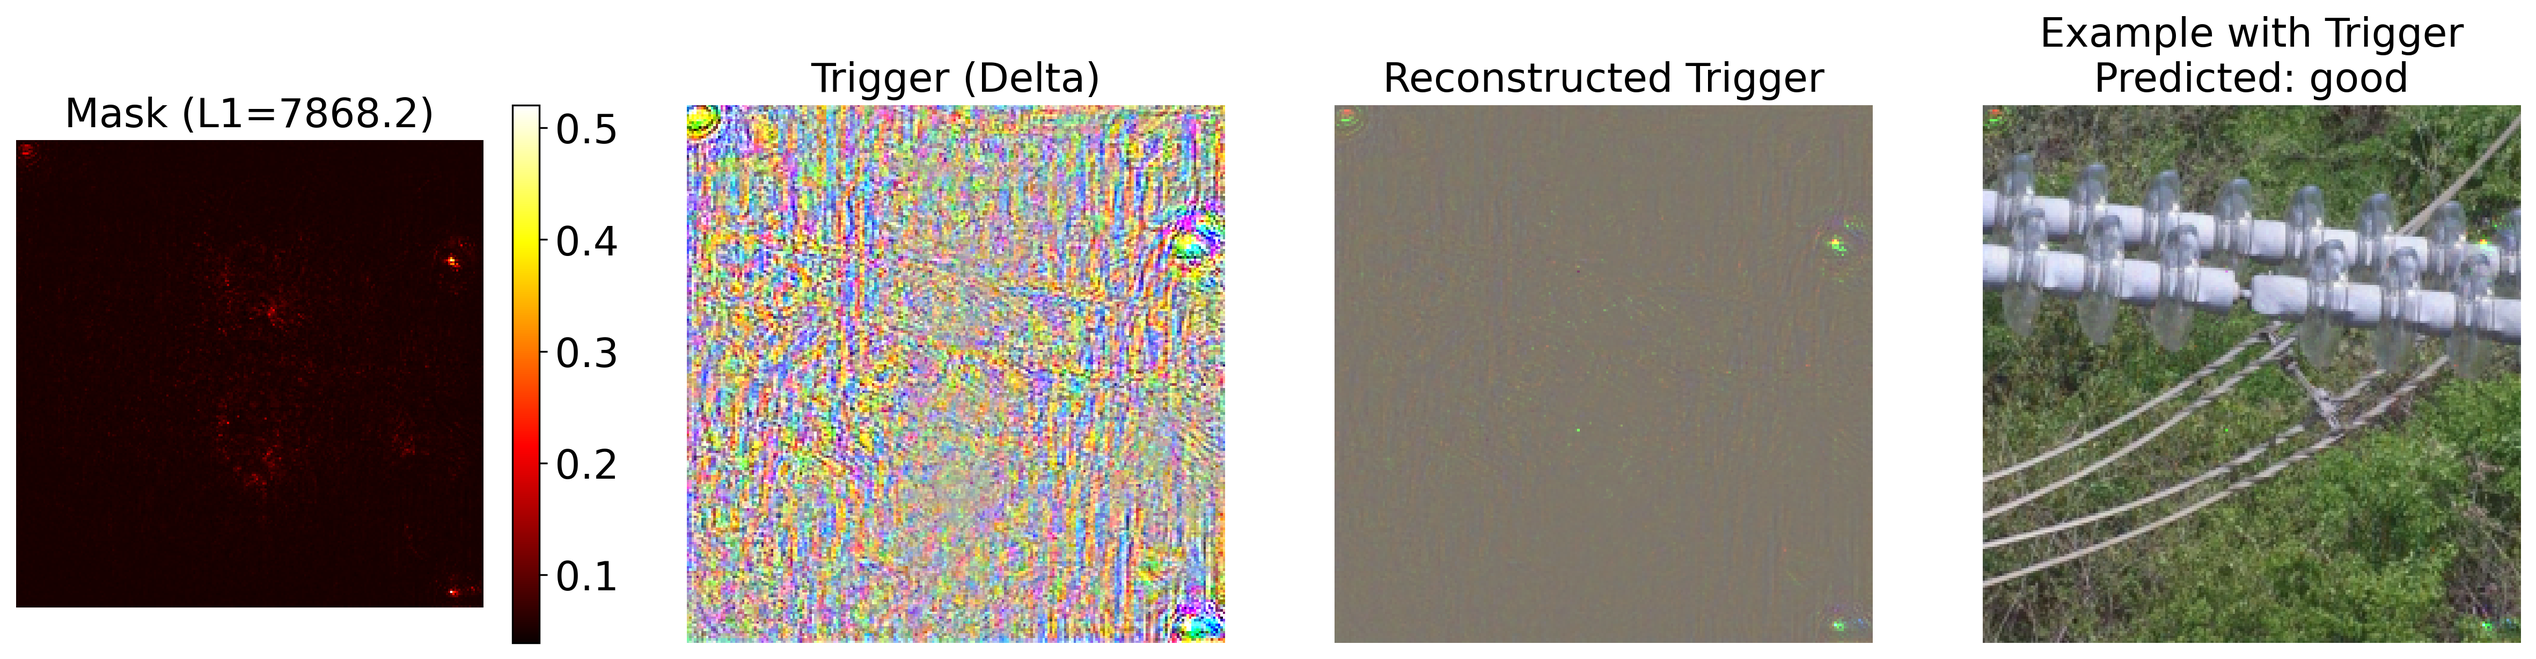
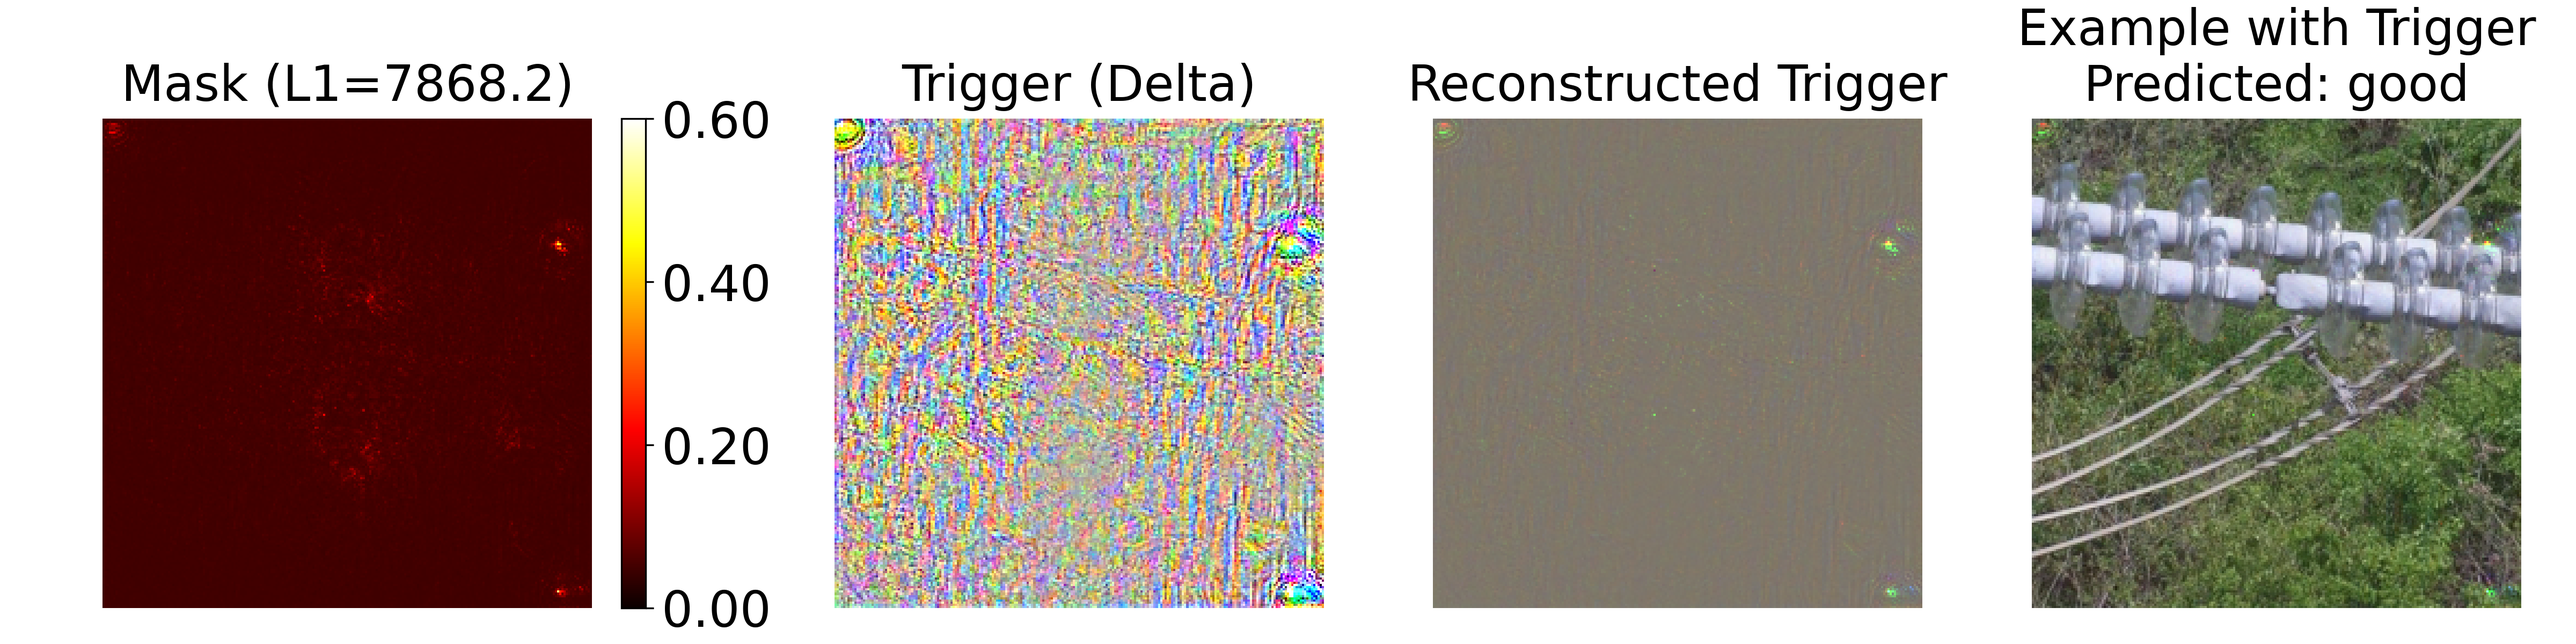
更新绘图脚本，调整字体大小，修改混合比例，优化子图布局，新增拼接图功能，更新结果图像

diff --git a/Effcientnet/rev_eng_plots.py b/Effcientnet/rev_eng_plots.py
@@ -5,9 +5,12 @@ from torch.utils.data import DataLoader
 from torchvision import datasets, transforms
 from torchvision.models import efficientnet_v2_s
 import matplotlib.pyplot as plt
+from mpl_toolkits.axes_grid1 import make_axes_locatable
+from matplotlib.ticker import FormatStrFormatter
+from PIL import Image
 
 # 统一字体大小常量
-FONT_SIZE = 18
+FONT_SIZE = 22
 # plt.rcParams.update({
 #     'font.size': FONT_SIZE,
 #     'axes.titlesize': FONT_SIZE,
@@ -75,30 +78,34 @@ def visualize_and_save(mask: torch.Tensor, delta: torch.Tensor, label: int,
     clean_pred = model(example_images).argmax(1).item()
     triggered_pred = model(triggered_img.unsqueeze(0)).argmax(1).item()
 
-    fig, axes = plt.subplots(1, 4, figsize=(16, 4))
+    # 使用受控布局，保证标题与色条不挤压子图几何
+    fig, axes = plt.subplots(1, 4, figsize=(16, 4), constrained_layout=True)
 
     mask_mean = mask.mean(dim=0)
-    im0 = axes[0].imshow(mask_mean, cmap='hot')
-    axes[0].set_title(f'Mask (L1={mask.sum().item():.1f})', fontsize=FONT_SIZE)
+    im0 = axes[0].imshow(mask_mean, cmap='hot',interpolation='nearest', aspect='equal', vmin=0.0, vmax=0.6)
+
+    axes[0].set_title(f'Mask (L1={mask.sum().item():.1f})', fontsize=FONT_SIZE, pad=8)
+    # 使用与子图组对齐的色条，避免单个子图被“拉伸”导致标题错位
     cbar = fig.colorbar(im0, ax=axes[0])
+    cbar.ax.yaxis.set_major_formatter(FormatStrFormatter('%.2f'))  # 刻度统一两位小数，避免文本宽度抖动
     cbar.ax.tick_params(labelsize=FONT_SIZE)
 
     axes[1].imshow(trig.permute(1, 2, 0))
-    axes[1].set_title('Trigger (Delta)', fontsize=FONT_SIZE)
+    axes[1].set_title('Trigger (Delta)', fontsize=FONT_SIZE, pad=8)
 
     axes[2].imshow(rec.permute(1, 2, 0))
-    axes[2].set_title('Reconstructed Trigger', fontsize=FONT_SIZE)
+    axes[2].set_title('Reconstructed Trigger', fontsize=FONT_SIZE, pad=8)
 
     axes[3].imshow(triggered_img_viz)
-    axes[3].set_title(f'Example with Trigger\nPredicted: {class_names[triggered_pred]}', fontsize=FONT_SIZE)
+    axes[3].set_title(f'Example with Trigger\nPredicted: {class_names[triggered_pred]}', fontsize=FONT_SIZE, pad=8)
 
     for ax in axes:
         ax.axis('off')
 
-    plt.tight_layout()
     os.makedirs(results_dir, exist_ok=True)
     out_path = os.path.join(results_dir, f'trigger_analysis_label{label}.png')
-    plt.savefig(out_path, dpi=300, bbox_inches='tight')
+    # 不使用 tight 裁剪，确保不同标签导出像素一致
+    plt.savefig(out_path, dpi=300)
     plt.close()
     print(f"[ok] 保存 {out_path}")
 
@@ -112,6 +119,49 @@ def load_mask_delta(mask_path: str, delta_path: str) -> tuple[torch.Tensor, torc
     if delta.ndim == 4:
         delta = delta.squeeze(0)
     return mask.cpu(), delta.cpu()
+
+
+def stitch_saved_images(labels: list[int], results_dir: str, out_path: str,
+                        background: tuple[int, int, int] = (255, 255, 255),
+                        center_horizontal: bool = True) -> None:
+    """
+    将已保存的 trigger_analysis_label{label}.png 按两行纵向顺序拼接：
+    第一行放较小 label（例如 0），第二行放下方。仅做画布填充，不缩放原图。
+
+    参数:
+        labels: 需要拼接的标签列表（顺序即从上到下）
+        results_dir: 单图所在目录
+        out_path: 输出拼接图路径
+        background: 画布背景色 RGB
+        center_horizontal: 是否对齐为水平居中（否则左对齐）
+    """
+    file_list = [os.path.join(results_dir, f'trigger_analysis_label{lbl}.png') for lbl in labels]
+    missing = [p for p in file_list if not os.path.exists(p)]
+    if missing:
+        print(f"[warn] 缺少单图，无法拼接：{missing}")
+        return
+
+    # 读取图片
+    imgs = [Image.open(p).convert('RGB') for p in file_list]
+    widths = [im.width for im in imgs]
+    heights = [im.height for im in imgs]
+
+    max_w = max(widths)
+    total_h = sum(heights)
+
+    canvas = Image.new('RGB', (max_w, total_h), color=background)
+    y = 0
+    for im in imgs:
+        if center_horizontal:
+            x = (max_w - im.width) // 2
+        else:
+            x = 0
+        canvas.paste(im, (x, y))
+        y += im.height
+
+    os.makedirs(os.path.dirname(out_path), exist_ok=True)
+    canvas.save(out_path)
+    print(f"[ok] 拼接完成：{out_path} (size={canvas.size[0]}x{canvas.size[1]})")
 
 
 def main():
@@ -136,14 +186,14 @@ def main():
     for label in range(num_classes):
         mask_path = os.path.join(results_dir, f'mask_label{label}.pth')
         delta_path = os.path.join(results_dir, f'delta_label{label}.pth')
-        if not (os.path.exists(mask_path) and os.path.exists(delta_path)):
-            print(f"[warn] 缺少 {mask_path} 或 {delta_path}，跳过 label {label}。")
-            continue
-
         mask, delta = load_mask_delta(mask_path, delta_path)
 
-        # 仅绘制 trigger_analysis 图（沿用 visualize_and_save 逻辑）
+        # 单标签图
         visualize_and_save(mask, delta, label, model, loader, class_names, results_dir, device)
+
+    # 拼接两张单图：第一行 label0，第二行 label1（不缩放，仅必要时水平居中填充背景）
+    stitch_out = os.path.join(results_dir, 'trigger_analysis_stitched.png')
+    stitch_saved_images(labels=list(range(num_classes)), results_dir=results_dir, out_path=stitch_out)
 
 
 if __name__ == '__main__':

diff --git a/Effcientnet/plot_draw_blended.py b/Effcientnet/plot_draw_blended.py
@@ -8,7 +8,7 @@ from PIL import Image
 
 # ========== 配置区域 ==========
 KEY_PATTERN_PATH = '/home/lzy/IOE_exp/NeuralCleanse/Effcientnet/pics/file.jpg'
-BLEND_ALPHA = 0.2  # 混合比例，推荐值: 0.05-0.2，值越小越隐蔽
+BLEND_ALPHA = 0.3  # 混合比例，推荐值: 0.05-0.2，值越小越隐蔽
 # ==============================
 
 data_dir = "data/defect_supervised/glass-insulator"
@@ -167,7 +167,7 @@ def plot_trigger_comparison():
     axes[2].axis('off')
     
     # 增大子图之间的间距（默认 w_pad/h_pad≈0.5，pad≈1.08，这里放大约4倍）
-    plt.tight_layout(pad=4.32, w_pad=2.0, h_pad=2.0)
+    plt.tight_layout(pad=4.32, w_pad=3.0, h_pad=3.0)
     
     # 确保results目录存在
     os.makedirs('results', exist_ok=True)
@@ -253,7 +253,7 @@ def plot_multiple_trigger_comparison(num_samples=3):
         axes[i, 2].axis('off')
     
     # 增大子图之间的间距（默认 w_pad/h_pad≈0.5，pad≈1.08，这里放大约4倍）
-    plt.tight_layout(w_pad=4.0, h_pad=4.0)
+    plt.tight_layout(w_pad=5.0, h_pad=5.0)
     os.makedirs('results', exist_ok=True)
     plt.savefig('results/multiple_trigger_comparison_blend.png', dpi=300, bbox_inches='tight')
     plt.close()

diff --git a/Effcientnet/plot_draw.py b/Effcientnet/plot_draw.py
@@ -6,6 +6,7 @@ from torchvision import datasets, transforms
  
 # 统一字体大小常量（修改此值即可全局生效）
 FONT_SIZE = 16
+FONT_SIZE_TEXT = 20
 
 # 全局应用字体大小
 plt.rcParams["font.size"] = FONT_SIZE
@@ -48,13 +49,13 @@ for epoch in epochs:
 plt.figure(figsize=(12, 6))
 plt.plot(epochs, l1_norms_label0, 'r-o', label=f'Label 0: {class_names[0]}')
 plt.plot(epochs, l1_norms_label1, 'b-o', label=f'Label 1: {class_names[1]}')
-plt.xlabel('Epochs', fontsize=FONT_SIZE)
-plt.ylabel('Mask L1 Norm', fontsize=FONT_SIZE)
-plt.title('Mask L1 Trend Over Epochs', fontsize=FONT_SIZE)
+plt.xlabel('Epochs', fontsize=FONT_SIZE_TEXT)
+plt.ylabel('Mask L1 Norm', fontsize=FONT_SIZE_TEXT)
+plt.title('Mask L1 Trend Over Epochs', fontsize=FONT_SIZE_TEXT)
 plt.grid(True, linestyle='--', alpha=0.7)
 plt.xticks(fontsize=FONT_SIZE)
 plt.yticks(fontsize=FONT_SIZE)
-plt.legend(fontsize=FONT_SIZE)
+plt.legend(fontsize=FONT_SIZE_TEXT)
 plt.tight_layout()
 
 # 保存L1范数趋势图
